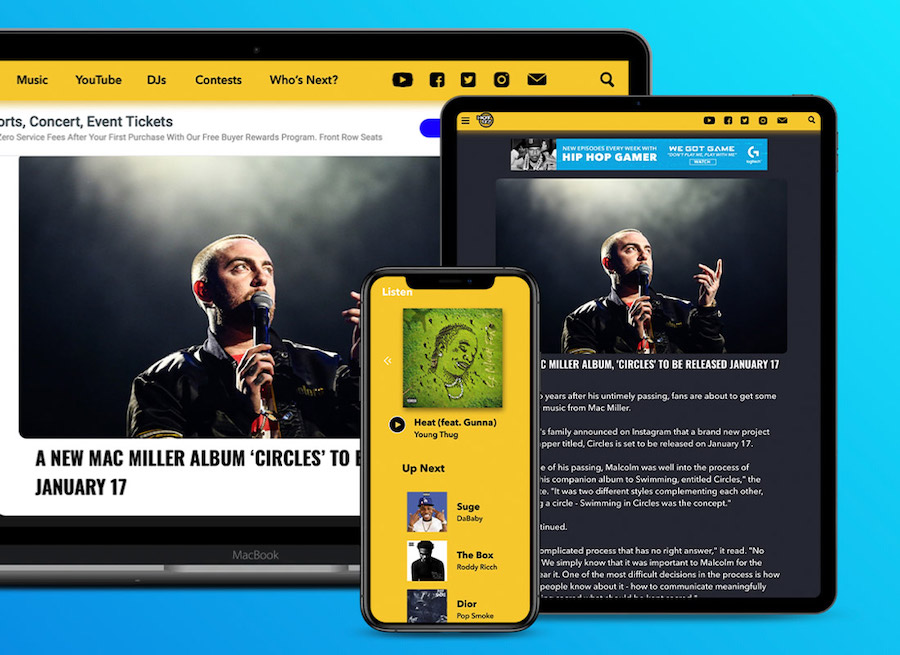
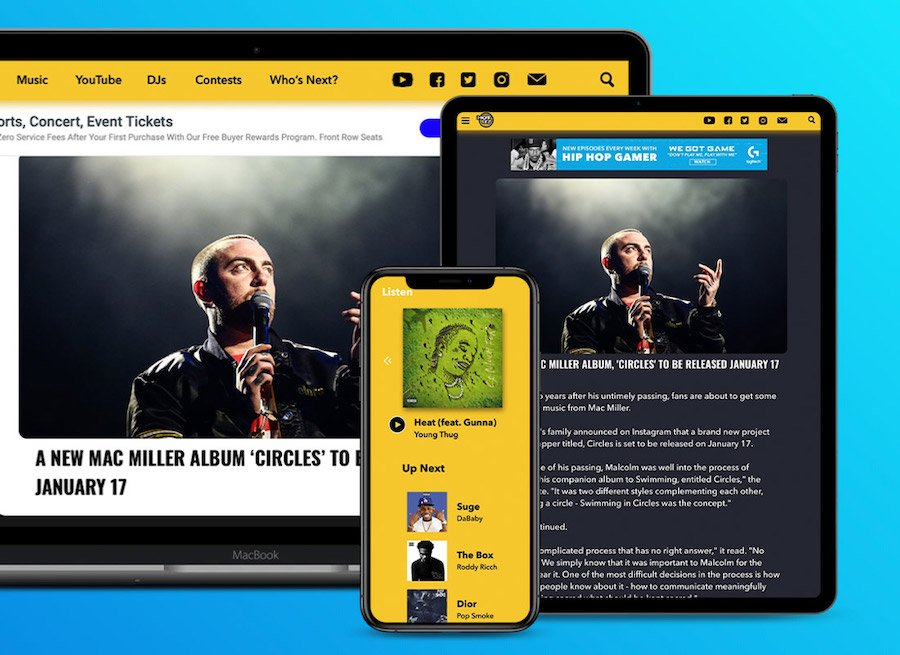
added high res images - homepage + project 1

diff --git a/proj_one.html b/proj_one.html
@@ -32,7 +32,11 @@
     <!-- Project 1 Content -->
     <div class="proj-fwh">
         <h1>Philadelphia Union Website Redesign</h1>
-        <img src="images/homepage/proj1-thumb.jpg" alt="image of website prototypes" class="proj-img">
+        <picture>
+            <source media="(min-width: 800px)" srcset="images/homepage/proj1-thumb-large.jpg">
+            <source media="(min-width: 450px)" srcset="images/homepage/proj1-thumb.jpg">   
+            <img src="images/homepage/proj1-thumb.jpg" alt="image of website prototypes" class="proj-img">
+        </picture>
         <p> 
             In my first term at Drexel University, we were tasked with redesigning a website of our choice. 
             Being from Philadelphia and a big soccer fan, I decided to redesign the website of the local Philadelphia Union team.
@@ -48,27 +52,59 @@
             The first initial research exercise I completed was a cardsorting exercise. This helped me get a general idea of how I would 
             restructure the website, making the user-experience more logical for the end-user. 
         </p>
-        <img src="images/proj1/proj1_sketches-1.jpg" alt="prototype sketches for project 1" class="proj-img">
-        <img src="images/proj1/proj1_sketches-2.jpg" alt="prototype sketches 2 for project 1" class="proj-img">
-        <img src="images/proj1/proj1_sketches-3.jpg" alt="prototype sketches 3 for project 1" class="proj-img">
+        <picture>
+            <source media="(min-width: 800px)" srcset="images/proj1/proj1_sketches-1-large.jpg">
+            <source media="(min-width: 450px)" srcset="images/proj1/proj1_sketches-1.jpg">     
+            <img src="images/proj1/proj1_sketches-1.jpg" alt="prototype sketches for project 1" class="proj-img">
+        </picture>
+        <picture>
+            <source media="(min-width: 800px)" srcset="images/proj1/proj1_sketches-2-large.jpg">
+            <source media="(min-width: 450px)" srcset="images/proj1/proj1_sketches-2.jpg">     
+            <img src="images/proj1/proj1_sketches-2.jpg" alt="prototype sketches 2 for project 1" class="proj-img">
+        </picture>
+        <picture>
+            <source media="(min-width: 800px)" srcset="images/proj1/proj1_sketches-3-large.jpg">
+            <source media="(min-width: 450px)" srcset="images/proj1/proj1_sketches-3.jpg">     
+            <img src="images/proj1/proj1_sketches-3.jpg" alt="prototype sketches for project 1" class="proj-img">
+        </picture>
         <p> 
             Experimenting with different designs was an important step in finding what would work best for the redesign of the site. 
             During this step, I used Adobe XD to experiement with various layouts, before deciding which one to make a high-fidelity 
             prototype for. 
         </p>
-        <img src="images/proj1/proj1_color_schemes-1.jpg" alt="color schemes for project 1" class="proj-img">
-        <img src="images/proj1/proj1_color_schemes-2.jpg" alt="color schemes 2 for project 1" class="proj-img">
-        <img src="images/proj1/proj1_color_schemes-3.jpg" alt="color schemes 3 for project 1" class="proj-img">
+        <picture>
+            <source media="(min-width: 800px)" srcset="images/proj1/proj1_color_schemes-1-large.jpg">
+            <source media="(min-width: 450px)" srcset="images/proj1/proj1_color_schemes-1.jpg">     
+            <img src="images/proj1/proj1_color_schemes-1.jpg" alt="prototype color schemes for project 1" class="proj-img">
+        </picture>
+        <picture>
+            <source media="(min-width: 800px)" srcset="images/proj1/proj1_color_schemes-2-large.jpg">
+            <source media="(min-width: 450px)" srcset="images/proj1/proj1_color_schemes-2.jpg">     
+            <img src="images/proj1/proj1_color_schemes-2.jpg" alt="prototype color schemes for project 2" class="proj-img">
+        </picture>
+        <picture>
+            <source media="(min-width: 800px)" srcset="images/proj1/proj1_color_schemes-3-large.jpg">
+            <source media="(min-width: 450px)" srcset="images/proj1/proj1_color_schemes-3.jpg">     
+            <img src="images/proj1/proj1_color_schemes-3.jpg" alt="prototype color schemes for project 1" class="proj-img">
+        </picture>
         <p> 
             Experimenting with different color palettes and fonts was another critical step in discovering what the end-product
             would look like. 
         </p>
-        <img src="images/proj1/proj1_prototyping.jpg" alt="adobe xd prototyping challenge" class="proj-img">
+        <picture>
+            <source media="(min-width: 800px)" srcset="images/proj1/proj1_prototyping-large.jpg">
+            <source media="(min-width: 450px)" srcset="images/proj1/proj1_prototyping.jpg">     
+            <img src="images/proj1/proj1_prototyping.jpg" alt="adobe xd prototyping challenge" class="proj-img">
+        </picture>
         <p> 
             One of the most challenging parts of this process was making navigation bar function within the Adobe XD program. 
             This process took hours to ensure that every page was correctly linked.
         </p>
-        <img src="images/proj1/proj1_roster.jpeg" alt="roster page for project 1" class="proj-img">
+        <picture>
+            <source media="(min-width: 800px)" srcset="images/proj1/proj1_roster-large.jpeg">
+            <source media="(min-width: 450px)" srcset="images/proj1/proj1_roster.jpeg">     
+            <img src="images/proj1/proj1_roster.jpeg" alt="roster page for project 1" class="proj-img">
+        </picture>
         <p>
             Overall, I learned a lot throughout the process of creating Project 1 in my first quarter at Drexel. 
             It helped me understand the details and choices that need to be made when designing a website and I feel
